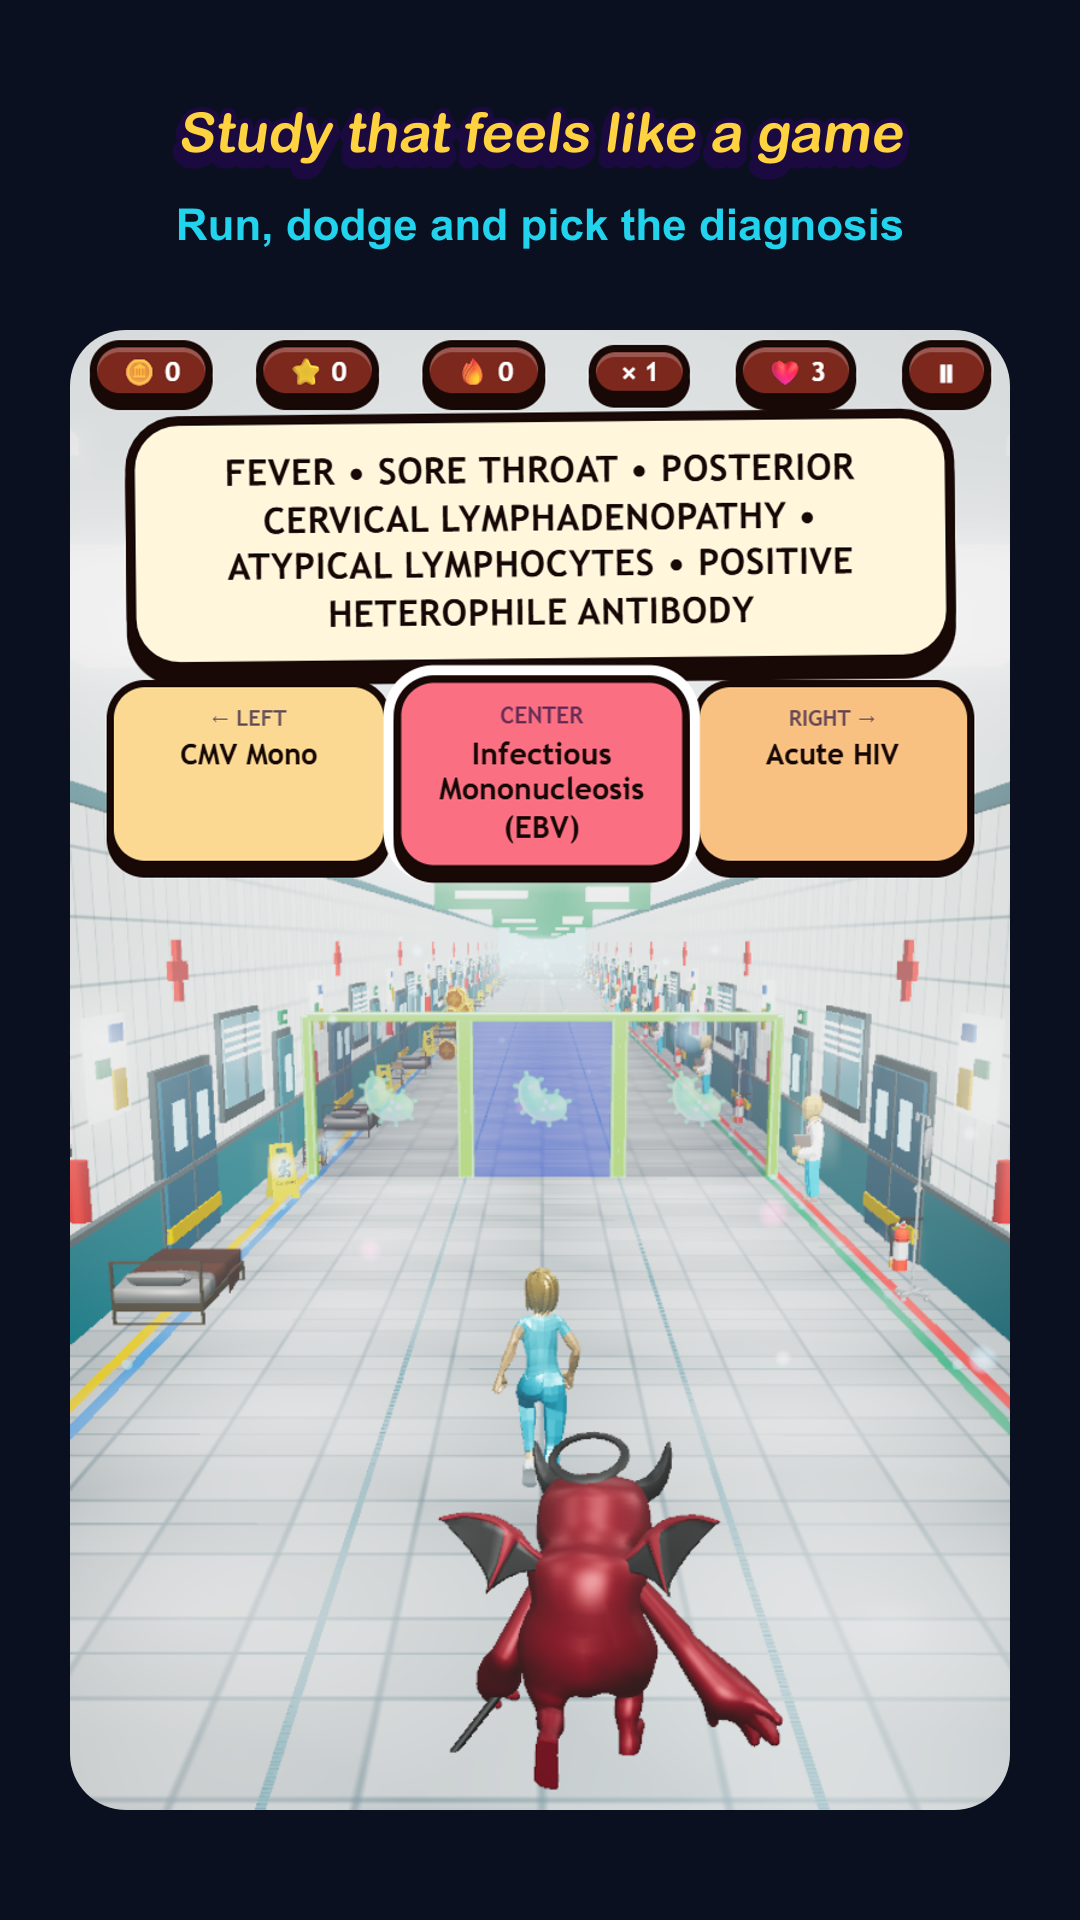
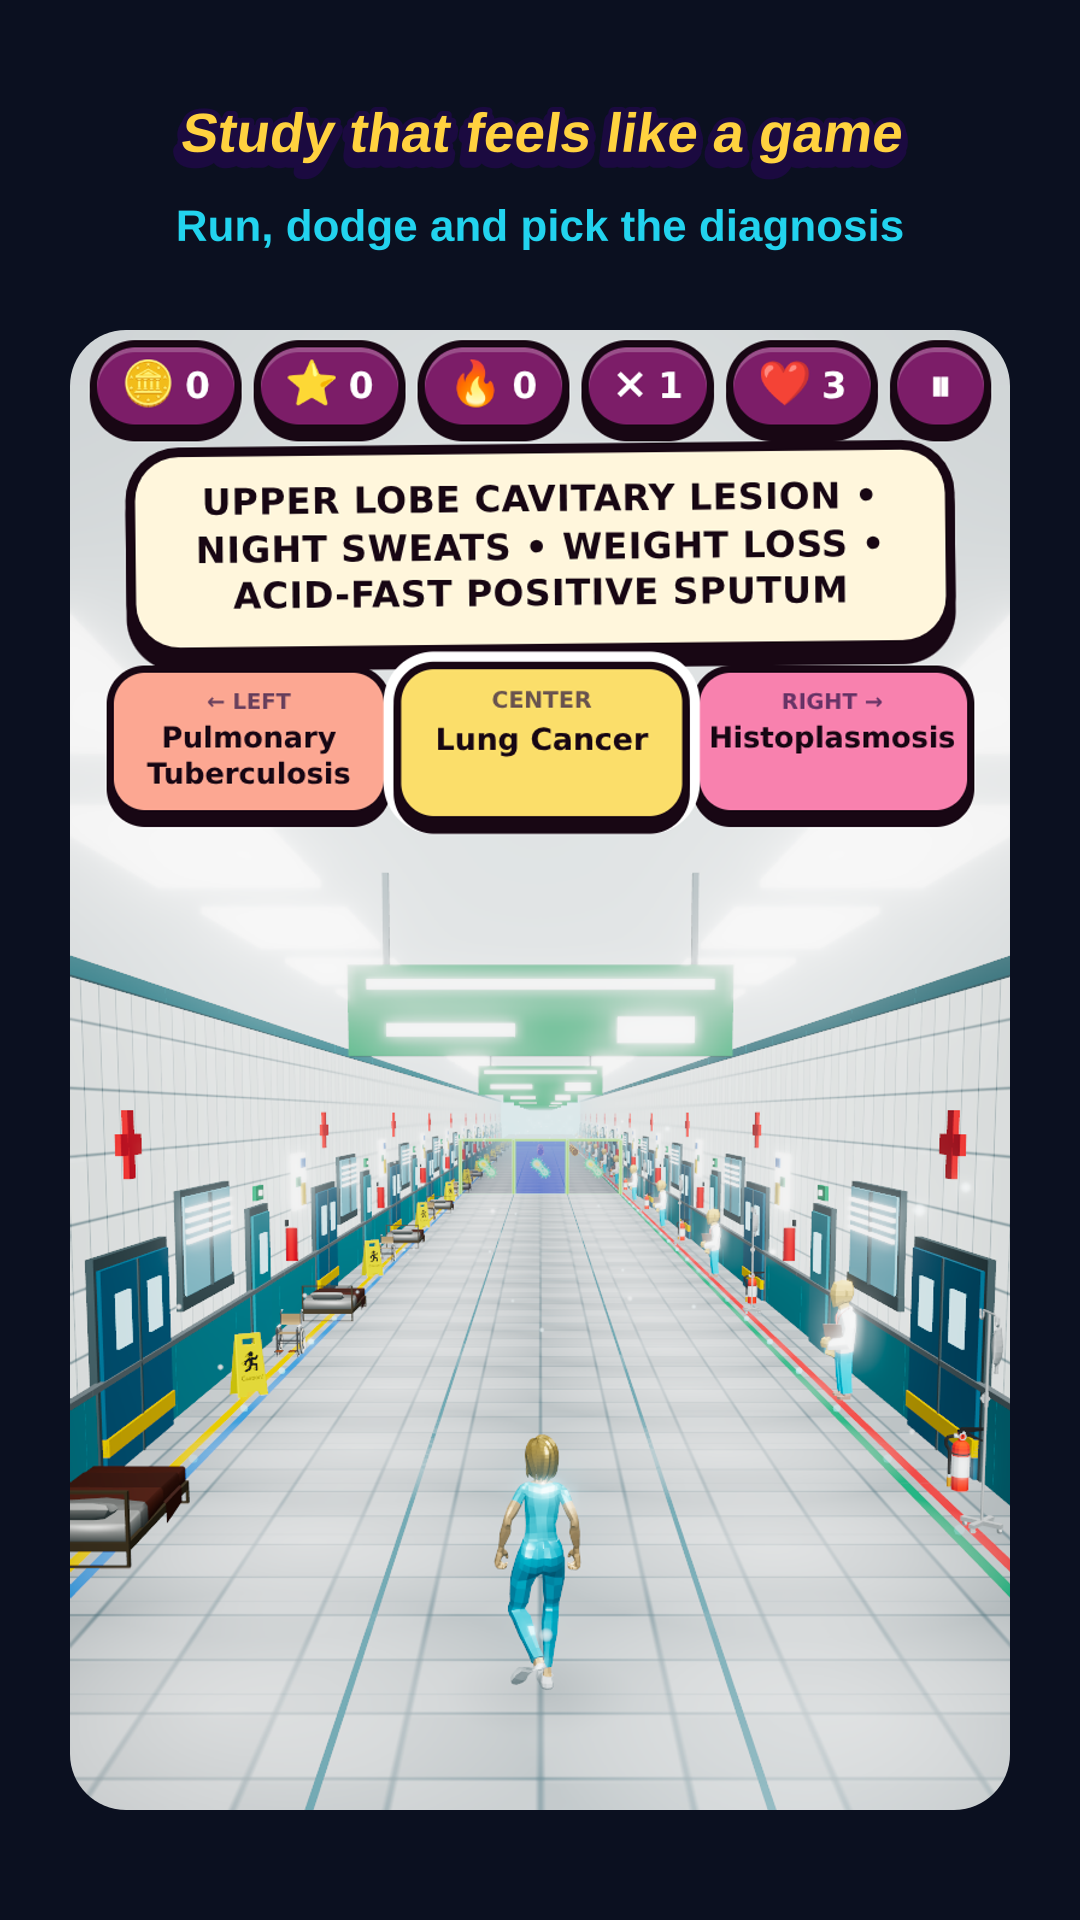
Debug card list for screenshots is read live; regenerated store screenshots in progress
Claude-Session: https://claude.ai/code/session_01LY7vAs7JwohXe2buvBQMZV

diff --git a/js/main.js b/js/main.js
@@ -1110,7 +1110,7 @@ function init() {
     window.__useRankedTestClient = useRankedTestClient;
     window.__audio = audio;
     window.__storage = storage;
-    window.__cards = CARDS;
+    Object.defineProperty(window, '__cards', { get: function () { return CARDS; } }); // (CARDS is filled in after the first paint)
   }
   storage.load();
   storage.checkDailyReset();
